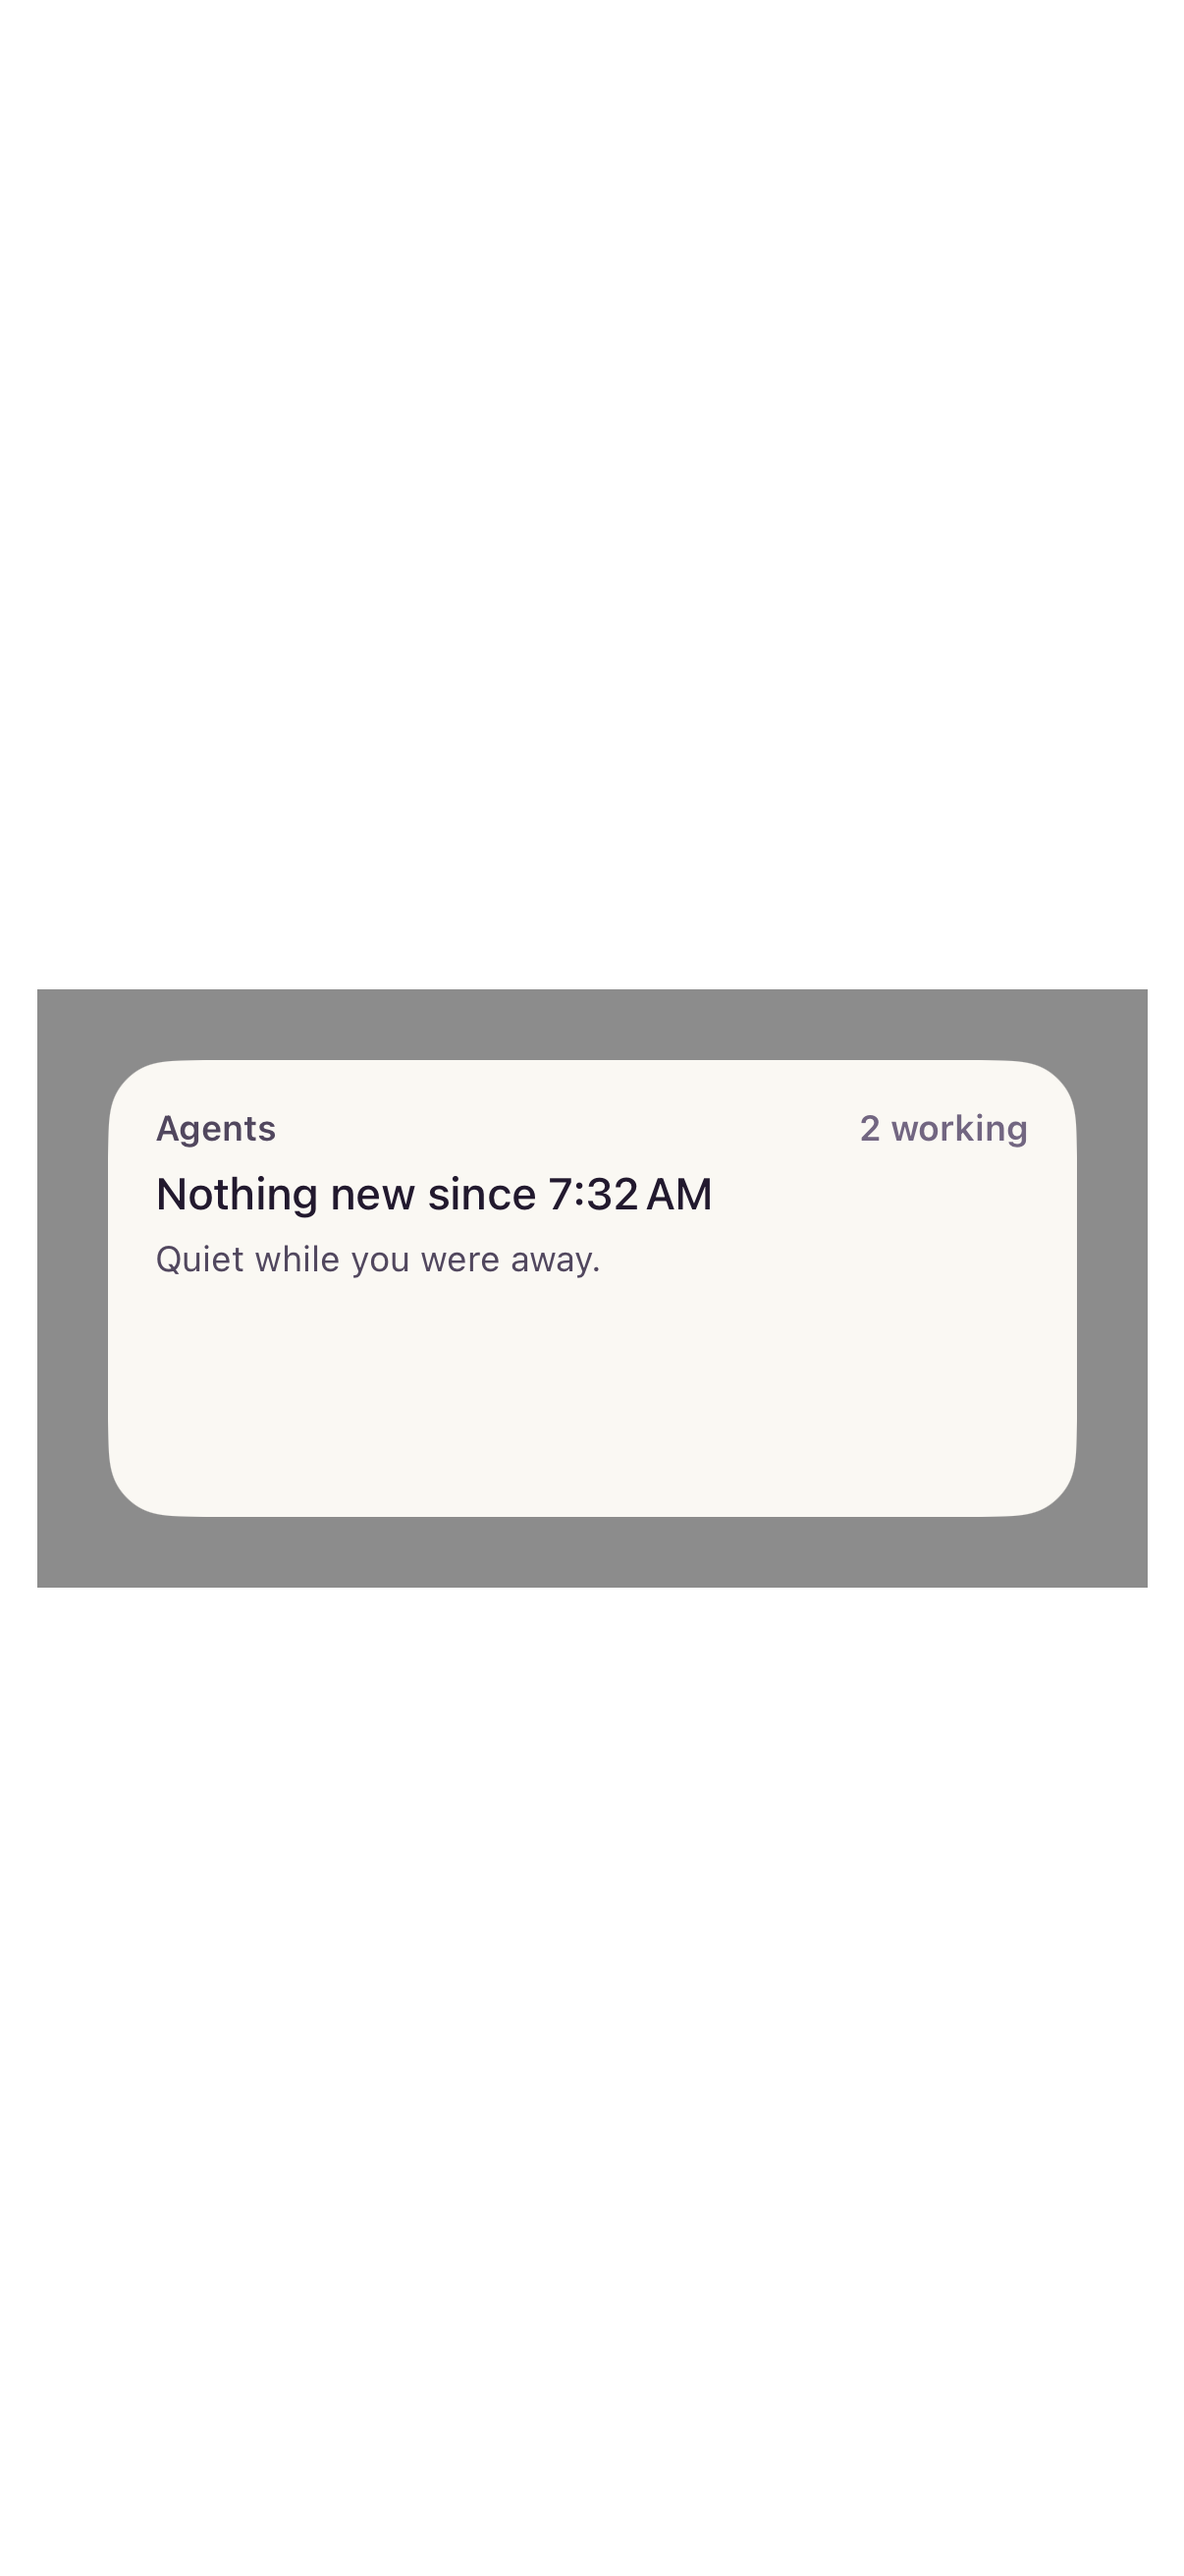
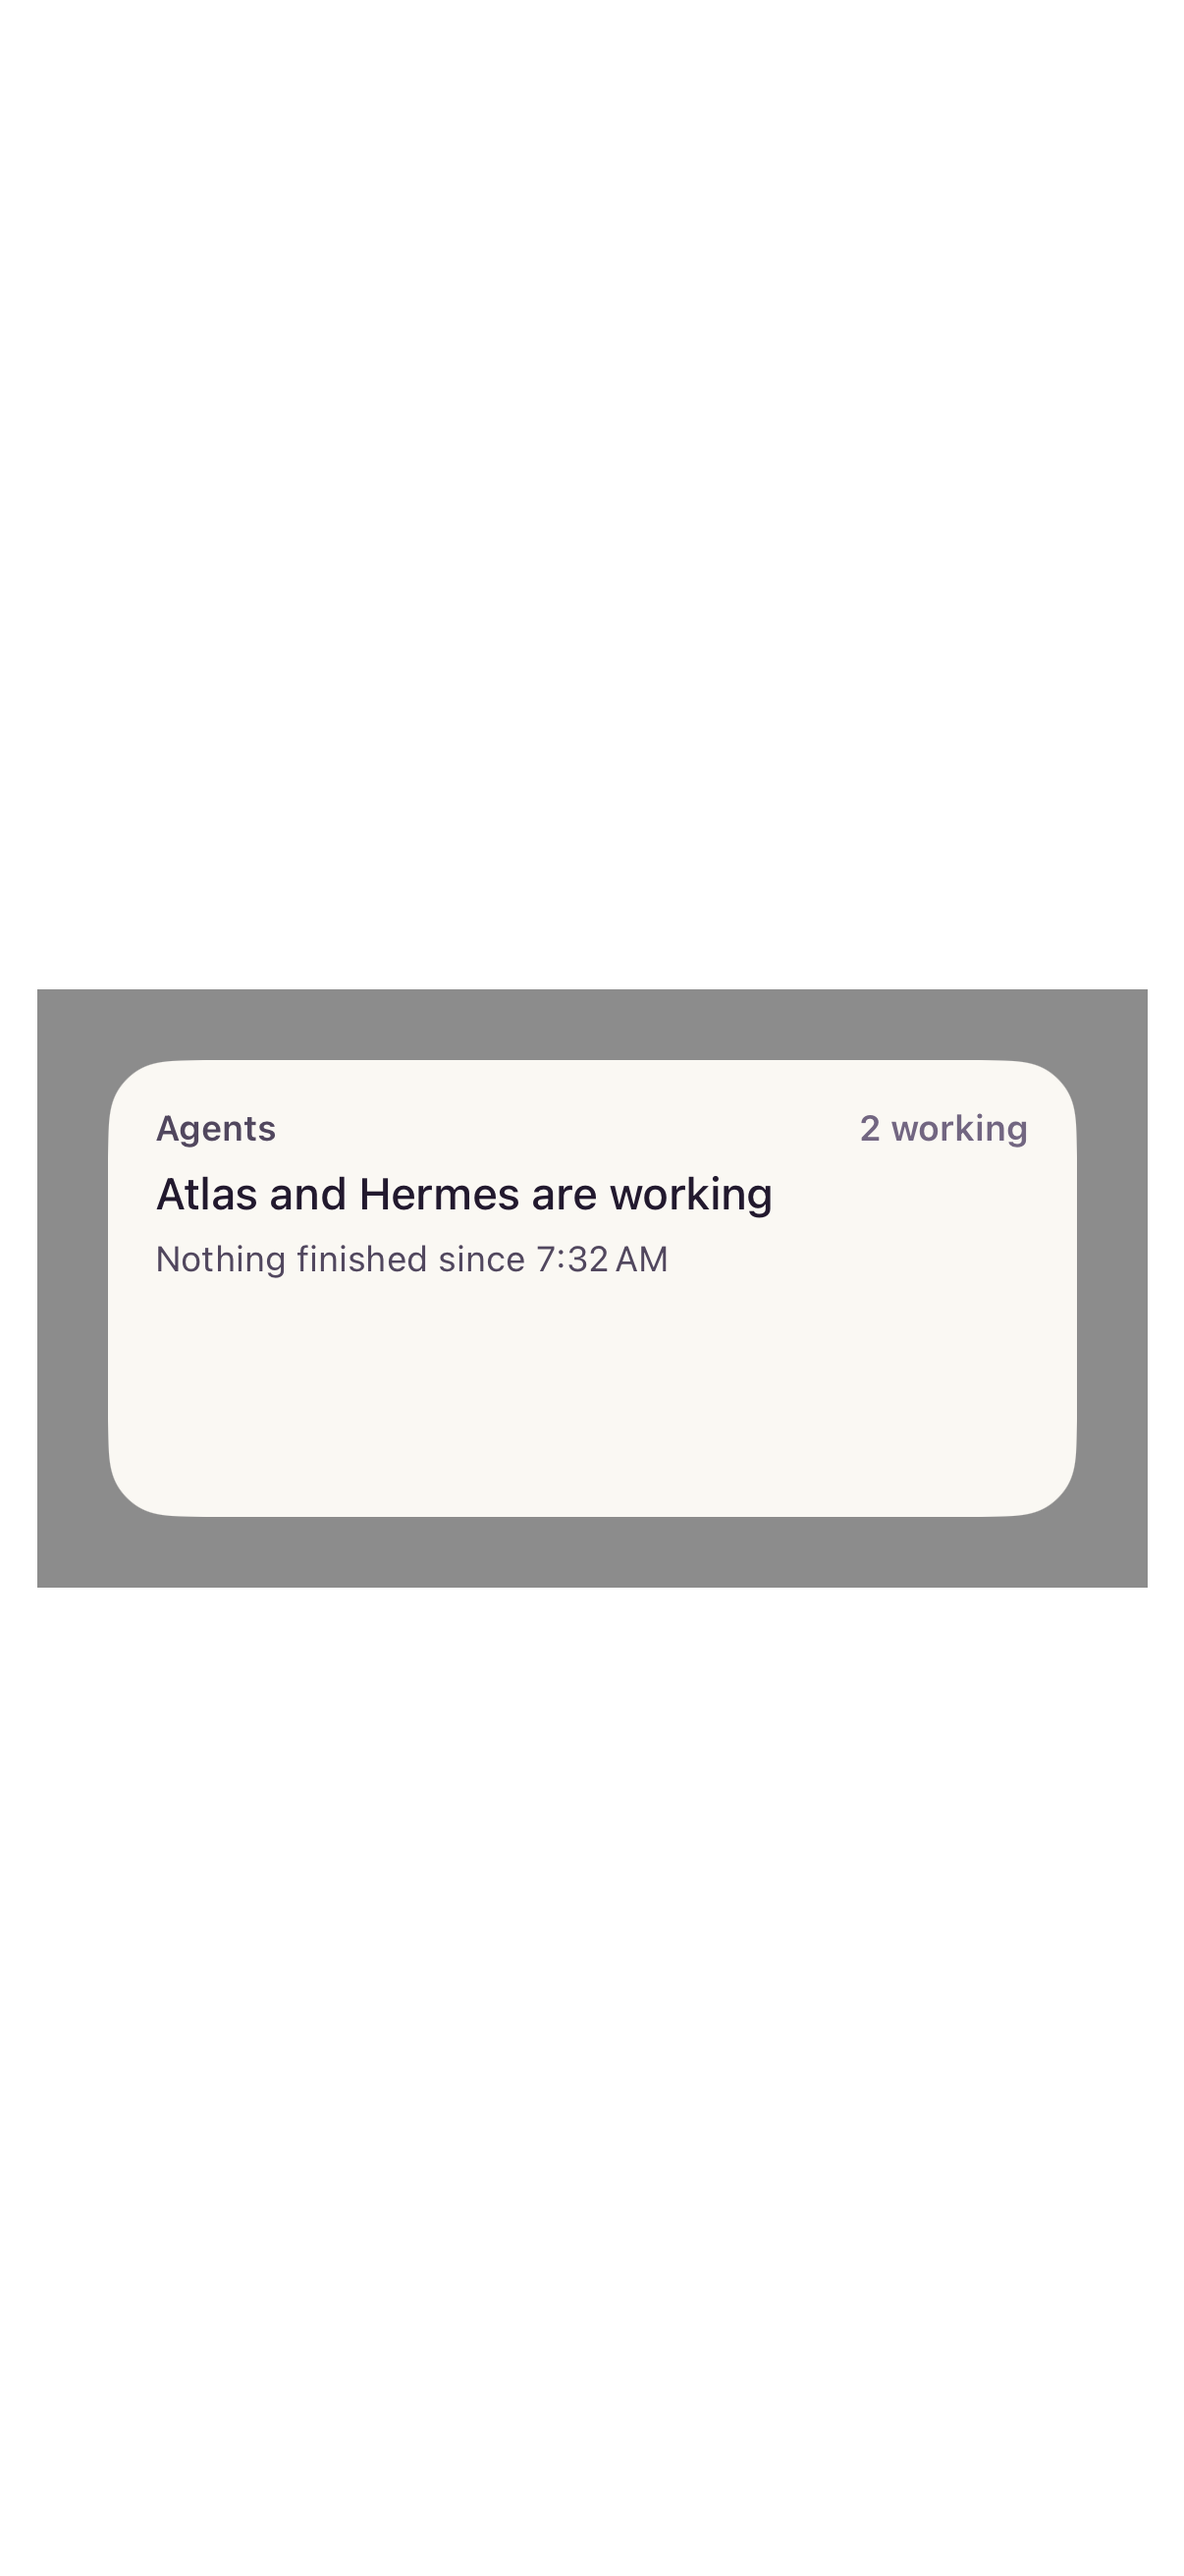
iOS: record the recap's baselines; a stale fixture whose turn began before its last update; an accessibility-size card preview
Claude-Session: https://claude.ai/code/session_01Ay3q8gacHFVinDQeR9g4XF

Changed region(s): [[0.1227, 0.4325, 0.6443, 0.4943]]

diff --git a/apple/Supermessage/Previews/FleetActivityPreviews.swift b/apple/Supermessage/Previews/FleetActivityPreviews.swift
@@ -136,7 +136,14 @@ private enum Fleet {
     static let failed = State(agents: [lastQuill], updatedAt: at)
     /// The hub's stale date has passed with an agent working: no clock
     /// moves, nothing claims progress — and a failed row keeps its red.
-    static let stale = State(agents: [lyra, failedQuill], working: 1, updatedAt: at - 20 * 60)
+    static let stale = State(
+        agents: [
+            State.Agent(
+                roomId: "!lyra:hs", mxid: "@agent_artistic-lyra:hs", name: "Artistic Lyra",
+                state: .working, phase: .tools, step: "Running the tests", completed: 3, total: 7,
+                since: at - 20 * 60 - 124),
+            failedQuill,
+        ], working: 1, updatedAt: at - 20 * 60)
 }
 
 private struct Cards: View {
@@ -166,6 +173,19 @@ private struct Cards: View {
 
 #Preview("Fleet card, A + C, larger text, dark") {
     Cards().dynamicTypeSize(.xLarge).preferredColorScheme(.dark)
+}
+
+/// Past the sizes the Lock Screen is tested at: the card gives up the stage
+/// labels, then the rows, then the hero's subtitle, and keeps the header and
+/// the decision whole (spec 2026-09-30, B2).
+#Preview("Fleet card, A + C, accessibility text") {
+    Wallpaper {
+        LockScreenCard(label: "One agent working", state: Fleet.one)
+        LockScreenCard(label: "Three agents working", state: Fleet.three)
+        LockScreenCard(label: "Needs you", state: Fleet.asked)
+        LockScreenCard(label: "Finished, with a failed row", state: Fleet.finished)
+    }
+    .dynamicTypeSize(.accessibility1)
 }
 
 /// The watch's Smart Stack: a small Live Activity, about 170 points wide on
